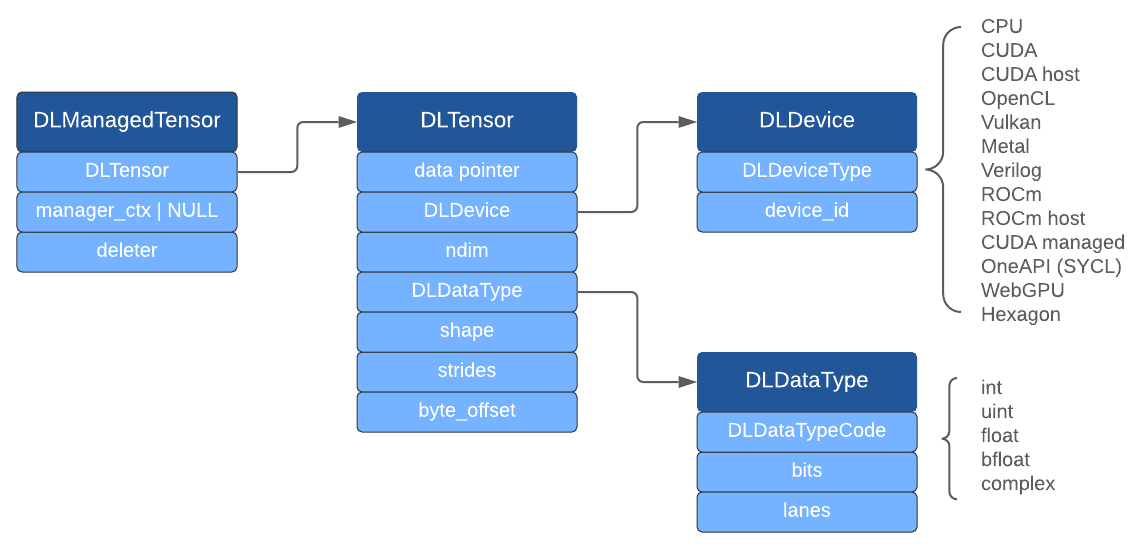
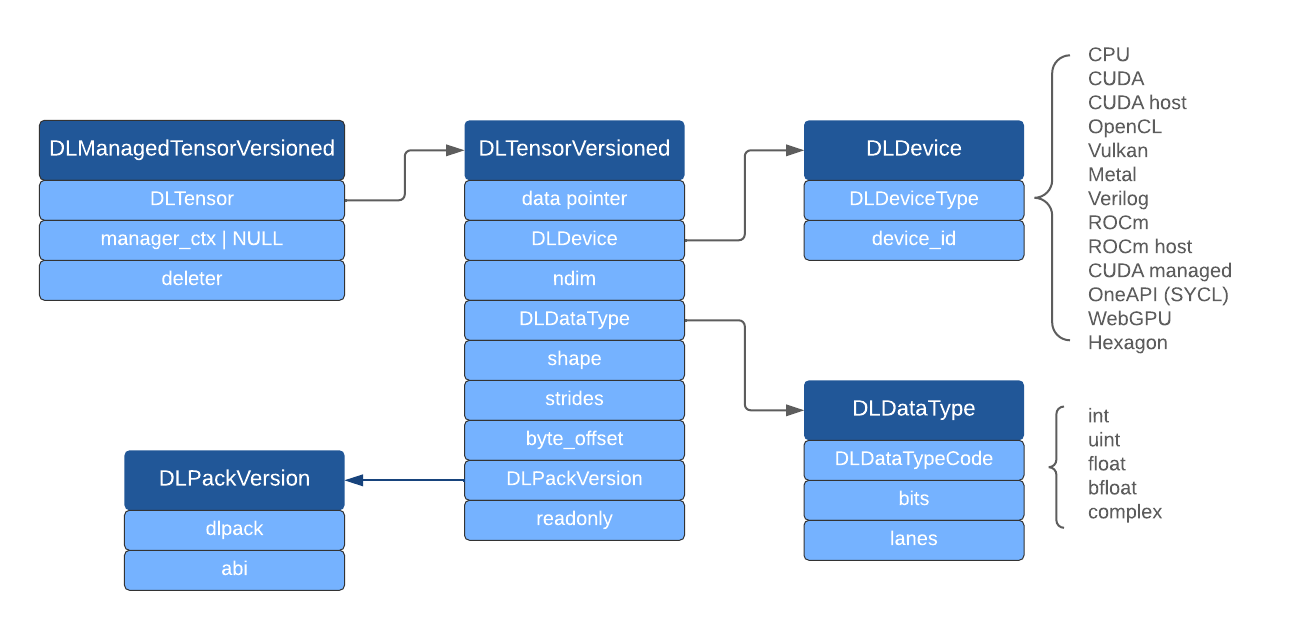
Remove capsule renaming, add release notes, update disgram

Changed region(s): [[0.0, 0.0306, 0.9799, 0.9784]]

diff --git a/docs/source/python_spec.rst b/docs/source/python_spec.rst
@@ -16,12 +16,12 @@ The array API will offer the following syntax for data interchange:
 1. A ``from_dlpack(x)`` function, which accepts (array) objects with a
    ``__dlpack__`` method and uses that method to construct a new array
    containing the data from ``x``.
-2. ``__dlpack__(self, stream=None, version=None)``, ``__dlpack_info__()``,
-   and ``__dlpack_device__()`` methods on the array object, which will be
-   called from within ``from_dlpack``, to access the data, to get the
-   maximum supported DLPack version, and to query what device the array
-   is on (may be needed to pass in the correct stream, e.g. in the case
-   of multiple GPUs).
+2. ``__dlpack__(self, stream: int = None, version: int = None)``,
+   ``__dlpack_info__(self)``, and ``__dlpack_device__(self)`` methods
+   on the array object, which will be called from within ``from_dlpack``,
+   to access the data, to get the maximum supported DLPack version, and
+   to query what device the array is on (may be needed to pass in the
+   correct stream, e.g. in the case of multiple GPUs).
 
 
 Semantics
@@ -56,7 +56,7 @@ DLPack version supported by the producer and request for a version both
 support e.g. ``min(producer_version, consumer_version)``. If the consumer
 doesn't support any version below the producer's maximum version, a
 ``BufferError`` should be raised. Similarly, If the producer doesn't
-support the requested version, it should also raise a ``BufferError``.
+support the requested version, it should raise a ``BufferError``.
 
 
 Implementation
@@ -75,31 +75,31 @@ struct members, gray text enum values of supported devices and data
 types.*
 
 The ``__dlpack__`` method will produce a ``PyCapsule`` containing a
-``DLManagedTensorVersioned`` or a ``DLManagedTensor`` that is
+``DLManagedTensorVersioned`` (or a ``DLManagedTensor``) that is
 compatible with the DLPack and DLPack ABI version requested by the
 consumer. It will be consumed immediately within ``from_dlpack`` -
 therefore it is consumed exactly once, and it will not be visible
 to users of the Python API.
 
-The producer must set the ``PyCapsule`` name to ``"dltensor"`` if ABI
-version 1 is requested and ``"versioned_dltensor"`` if ABI version >= 2
-is requested so that it can be inspected by name, and set
-``PyCapsule_Destructor`` that calls the ``deleter`` of the
-``DLManagedTensorVersioned`` or ``DLManagedTensor`` when the
-``"versioned_dltensor"``-named or ``"dltensor"``-named capsule is no
+The producer must set the ``PyCapsule`` name to ``"dltensor"`` so
+that it can be inspected by name, and set ``PyCapsule_Destructor``
+that calls the ``deleter`` of the ``DLManagedTensorVersioned`` (or
+``DLManagedTensor``) when the ``"dltensor"``-named capsule is no
 longer needed.
 
 The consumer must transfer ownership of the ``DLManangedTensorVersioned``
-or ``DLManangedTensor`` from the capsule to its own object. It does so
+(or ``DLManangedTensor``) from the capsule to its own object. It does so
 by renaming the capsule to ``"used_dltensor"`` to ensure that
 ``PyCapsule_Destructor`` will not get called (ensured if
 ``PyCapsule_Destructor`` calls ``deleter`` only for capsules whose name
-is ``"dltensor"`` or ``"versioned_dltensor"``), but the ``deleter`` of
-the ``DLManagedTensor`` will be called by the destructor of the consumer
-library object created to own the ``DLManagerTensor`` obtained from the
+is ``"dltensor"``), but the ``deleter`` of the
+``DLManagedTensorVersioned`` (or ``DLManagedTensor``) will be called by
+the destructor of the consumer library object created to own the
+``DLManagerTensorVersioned`` (or ``DLManagedTensor``) obtained from the
 capsule. Below is an example of the capsule deleter written in the Python
 C API which is called either when the refcount on the capsule named
-``"dltensor"`` reaches zero or the consumer decides to deallocate its array:
+``"dltensor"`` reaches zero or the consumer decides to deallocate its
+array:
 
 .. code-block:: C
 
@@ -112,8 +112,7 @@ C API which is called either when the refcount on the capsule named
       PyObject *type, *value, *traceback;
       PyErr_Fetch(&type, &value, &traceback);
 
-      /* Note that if ABI version >= 2 is used, the capsule will be named "versioned_dltensor" */
-      DLManagedTensor *managed = (DLManagedTensor *)PyCapsule_GetPointer(self, "dltensor");
+      DLManagedTensorVersioned *managed = (DLManagedTensorVersioned *)PyCapsule_GetPointer(self, "dltensor");
       if (managed == NULL) {
          PyErr_WriteUnraisable(self);
          goto done;
@@ -132,10 +131,10 @@ C API which is called either when the refcount on the capsule named
 Note: the capsule names ``"dltensor"`` and ``"used_dltensor"`` must be
 statically allocated.
 
-When the ``strides`` field in the ``DLTensorVersioned`` struct is ``NULL``,
-it indicates a row-major compact array. If the array is of size zero, the
-data pointer in ``DLTensorVersioned`` should be set to either ``NULL`` or
-``0``.
+When the ``strides`` field in the ``DLTensorVersioned`` (or ``DLTensor``)
+struct is ``NULL``, it indicates a row-major compact array. If the array
+is of size zero, the data pointer in ``DLTensorVersioned`` (or
+``DLTensor``) should be set to either ``NULL`` or ``0``.
 
 For further details on DLPack design and how to implement support for it,
 refer to https://github.com/dmlc/dlpack. For details on ABI compatibility
@@ -159,12 +158,14 @@ and to upgrade to the new ABI (version 2), refer to :ref:`future-abi-compat`.
 Future ABI Compatibility
 ~~~~~~~~~~~~~~~~~~~~~~~~
 
-ABI version 1 did not contain any version info in the ``DLTensor`` or
-``DLManagedTensor`` structs. Two equivalent structs, ``DLTensorVersioned`` and
-``DLManagedTensorVersioned``, have been added since ABI version 2 (DLPack version
-0.7.0) and can be used to check if the producer's DLPack version is compatible
-with the consumer's DLPack version. This section gives a path for Python
-libraries to upgrade to the new ABI (while preserving support for the old ABI):
+ABI version 1 did not provide any fields in the structs ``DLTensor`` or
+``DLManagedTensor`` to export version info. Two equivalent structs,
+``DLTensorVersioned`` and ``DLManagedTensorVersioned``, have been added
+since ABI version 2 (DLPack version 0.7.0) and have a ``version`` field
+that can be used to export version info and check if the producer's
+DLPack version is compatible with the consumer's DLPack version. This
+section gives a path for Python libraries to upgrade to the new ABI
+(while preserving support for the old ABI):
 
 * ``__dlpack__`` should accept a ``version`` (int) keyword which is set to
   ``None`` by default. Consumers can use this kwarg to request certain DLPack
@@ -176,9 +177,9 @@ libraries to upgrade to the new ABI (while preserving support for the old ABI):
   * a ``BufferError`` should be raised (if the producer doesn't want to keep
     support for the old ABI)
 
-  Otherwise, a capsule named ``"versioned_dltensor"`` should be returned which
-  uses the new ABI (``DLTensorVersioned`` and ``DLManagedTensorVersioned``). If
-  the requested version is not supported, ``__dlpack__`` should raise a
+  Otherwise, a capsule named ``"dltensor"`` which uses the new ABI
+  (``DLTensorVersioned`` and ``DLManagedTensorVersioned``) should be returned.
+  If the requested version is not supported, ``__dlpack__`` should raise a
   ``BufferError``.
 * Producers should implement a ``__dlpack_info__`` method that returns the
   maximum supported DLPack version.
@@ -187,9 +188,9 @@ libraries to upgrade to the new ABI (while preserving support for the old ABI):
   version (by passing the ``version`` kwarg to the ``__dlpack__`` method) that
   both support e.g. ``min(producer_version, consumer_version)`` or raise a
   ``BufferError`` if no compatible version exist. If the ``__dlpack_info__``
-  method can't be found (doesn't exist), the consumer should fallback to the old
-  API i.e. passing no version keyword to the ``__dlpack__`` method and expecting
-  a capsule named ``"dltensor"`` in return.
+  method can't be found (if the method doesn't exist), the consumer should
+  fallback to the old API i.e. passing no version keyword to the ``__dlpack__``
+  method and expecting a capsule pointing to a ``DLManagedTensor`` (old ABI).
 
 Reference Implementations
 ~~~~~~~~~~~~~~~~~~~~~~~~~

diff --git a/docs/source/release_notes.rst b/docs/source/release_notes.rst
@@ -1,0 +1,67 @@
+.. _release-notes:
+
+DLPack Change Log
+=================
+
+This file records the changes in DLPack in reverse chronological order.
+
+v0.7
+~~~~
+
+Note: This release contains ABI breaking changes.
+
+- ABI version has been added as ``DLPACK_ABI_VERSION`` macro in the header file.
+- Support for OneAPI (``kDLOneAPI``), WebGPU (``kDLWebGPU``), and Hexagon
+  (``kDLHexagon``) devices has been added.
+- Two new structs with a field to export the version info and the readonly
+  flag have been added: ``DLTensorVersioned`` and ``DLManagedTensorVersioned``.
+  New implementations should use these structs over ``DLTensor`` and
+  ``DLManagedTensor``. If you have already added support for DLPack, it should
+  be updated to use the new structs instead (warning: this is an ABI breaking
+  change for C/C++ libraries. Python libraries should follow the
+  :ref:`future-abi-compat` section to upgrade to the new ABI without breaking
+  backward-compatibility).
+
+v0.6
+~~~~
+
+- Support for ROCm host memory and CUDA managed memory has been added.
+
+v0.5
+~~~~
+
+- Devices kDLGPU and kDLCPUPinned have been renamed to kDLCUDA and kDLCUDAHost
+  respectively.
+
+v0.4
+~~~~
+
+- OpaqueHandle type
+- Complex support
+- Rename DLContext -> DLDevice
+  - This requires dependent frameworks to upgrade the type name.
+  - The ABI is backward compatible, as it is only change of constant name.
+
+v0.3
+~~~~
+
+- Add bfloat16
+- Vulkan support
+
+
+v0.2
+~~~~
+
+- New device types
+  - kDLMetal for Apple Metal device
+  - kDLVPI for verilog simulator memory
+  - kDLROCM for AMD GPUs
+- Add prefix DL to all enum constant values
+  - This requires dependent frameworks to upgrade their reference to these constant
+  - The ABI is compatible, as it is only change of constant name.
+- Add DLManagedTensor structure for borrowing tensors
+
+v0.1
+~~~~
+
+- Finalize DLTensor structure

diff --git a/NEWS.md b/NEWS.md
@@ -1,35 +1,1 @@
-DLPack Change Log
-=================
-
-This file records the changes in DLPack in reverse chronological order.
-
-## v0.7
-
-TODO
-
-## v0.4
-
-- OpaqueHandle type
-- Complex support
-- Rename DLContext -> DLDevice
-  - This requires dependent frameworks to upgrade the type name.
-  - The ABI is backward compatible, as it is only change of constant name.
-
-## v0.3
-
-- Add bfloat16
-- Vulkan support
-
-
-## v0.2
-- New device types
-  - kDLMetal for Apple Metal device
-  - kDLVPI for verilog simulator memory
-  - kDLROCM for AMD GPUs
-- Add prefix DL to all enum constant values
-  - This requires dependent frameworks to upgrade their reference to these constant
-  - The ABI is compatible, as it is only change of constant name.
-- Add DLManagedTensor structure for borrowing tensors
-
-## v0.1
-- Finalize DLTensor structure
+This file has moved to [doc/source/release_notes.rst](/doc/source/release_notes.rst).

diff --git a/docs/source/index.rst b/docs/source/index.rst
@@ -73,6 +73,7 @@ DLPack Documentation
 
    c_api
    python_spec
+   release_notes
 
 
 Indices and tables
